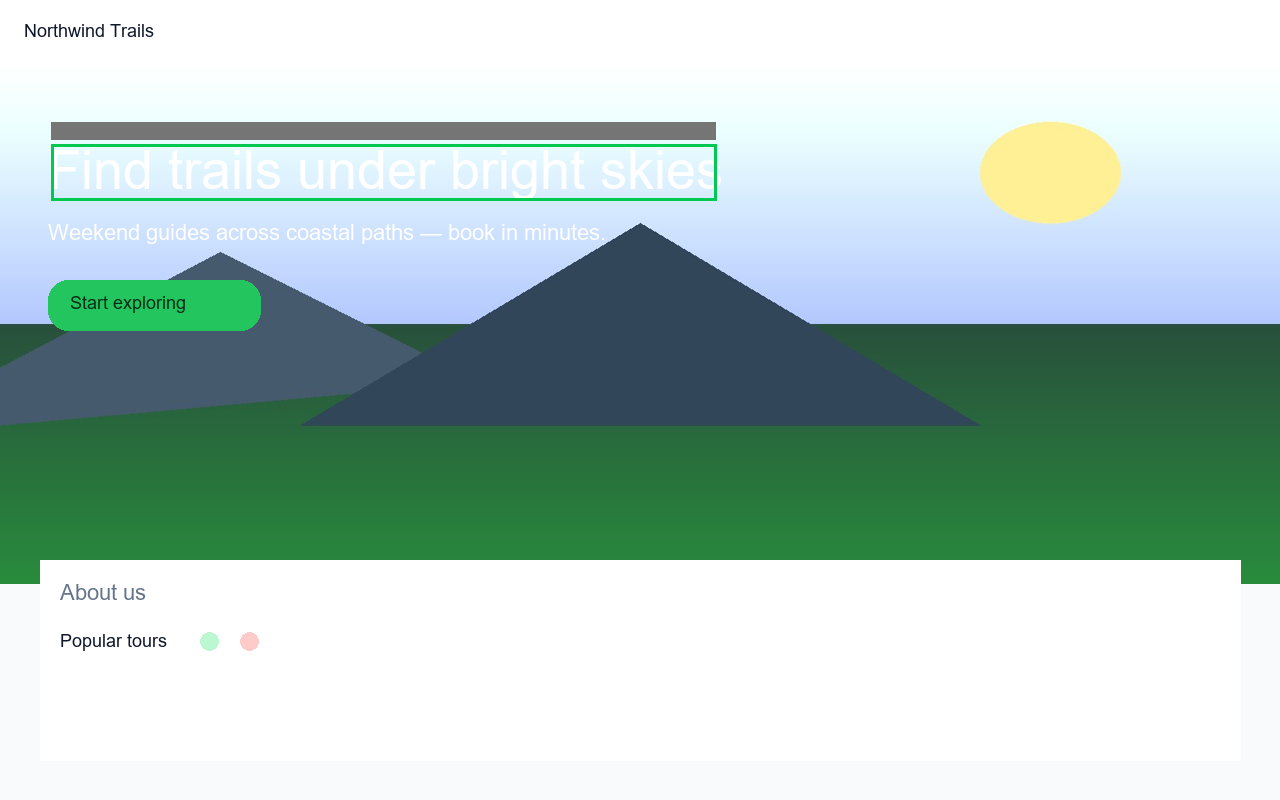
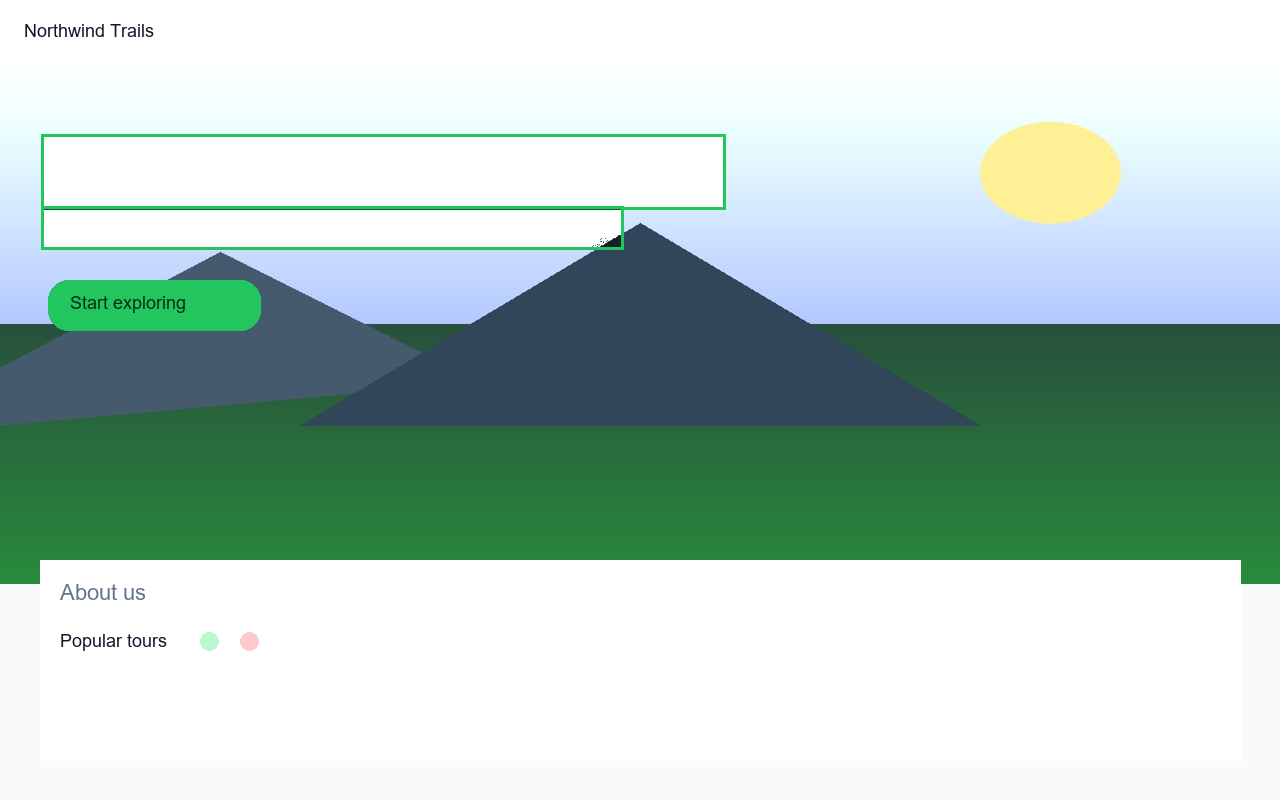
Fix hero autofix preview with scrim behind text.

Changed region(s): [[0.0312, 0.125, 0.5938, 0.3125]]

diff --git a/src/renderlens/visuals.py b/src/renderlens/visuals.py
@@ -3,12 +3,15 @@
 from __future__ import annotations
 
 from pathlib import Path
-from typing import Iterable, Optional
+from typing import Iterable, Literal
 
 from PIL import Image, ImageDraw, ImageFont
 
 from renderlens.contrast import (
+    contrast_ratio,
     nearest_aa_text_color,
+    passes_aa,
+    relative_luminance,
     rgb_to_hex,
     sample_region,
     scrim_alpha_for_aa,
@@ -44,12 +47,83 @@ def annotate_image(img: Image.Image, findings: Iterable[Finding]) -> Image.Image
         label = f.tier.value
         if f.contrast_ratio is not None:
             label = f"{f.contrast_ratio:.2f}:1 [{f.tier.value}]"
-        # label background
         tw, th = draw.textbbox((0, 0), label, font=font)[2:]
         ly = max(0, y1 - th - 4)
         draw.rectangle([x1, ly, x1 + tw + 6, ly + th + 4], fill=color + (230,))
         draw.text((x1 + 3, ly + 2), label, fill=(255, 255, 255), font=font)
     return out.convert("RGB")
+
+
+def _region_variance(pix: list[tuple[int, int, int]]) -> float:
+    if len(pix) <= 1:
+        return 0.0
+    mean = tuple(sum(p[i] for p in pix) / len(pix) for i in range(3))
+    return sum(sum((p[i] - mean[i]) ** 2 for i in range(3)) for p in pix) / len(pix)
+
+
+def _should_use_scrim(
+    finding: Finding,
+    sampled_fg: tuple[int, int, int],
+    sampled_bg: tuple[int, int, int],
+    variance: float,
+) -> bool:
+    if finding.category == "text_over_image":
+        return True
+    if finding.fix_kind == "scrim":
+        return True
+    # smooth sky/gradient under light text still needs a scrim, even if variance is low
+    if relative_luminance(sampled_fg) >= 0.55 and relative_luminance(sampled_bg) >= 0.45:
+        return True
+    if variance > 400:
+        return True
+    return False
+
+
+def _apply_scrim_behind_text(
+    img: Image.Image,
+    box: tuple[int, int, int, int],
+    *,
+    alpha: float,
+    pad: int = 10,
+) -> Image.Image:
+    """Darken background pixels in/near the box; keep bright text pixels readable.
+
+    We don't have a real z-order layer, so treat bright pixels as text and blend
+    the scrim into everything else — reads as a panel *behind* the letters.
+    """
+    x1, y1, x2, y2 = box
+    w, h = img.size
+    x1 = max(0, x1 - pad)
+    y1 = max(0, y1 - pad)
+    x2 = min(w, x2 + pad)
+    y2 = min(h, y2 + pad)
+
+    fixed = img.convert("RGB").copy()
+    region = fixed.crop((x1, y1, x2, y2))
+    pix = list(region.getdata())
+    a = max(0.35, min(1.0, alpha))  # visible enough for demos
+    out_pix = []
+    for r, g, b in pix:
+        lum = relative_luminance((r, g, b))
+        if lum >= 0.72:
+            # keep / boost text
+            out_pix.append((255, 255, 255))
+        else:
+            # scrim into background
+            out_pix.append(
+                (
+                    int(r * (1 - a)),
+                    int(g * (1 - a)),
+                    int(b * (1 - a)),
+                )
+            )
+    region.putdata(out_pix)
+    fixed.paste(region, (x1, y1))
+
+    # soft "fixed" outline so the slide reads clearly
+    draw = ImageDraw.Draw(fixed)
+    draw.rectangle([x1, y1, x2 - 1, y2 - 1], outline=(34, 197, 94), width=3)
+    return fixed
 
 
 def auto_fix_preview(
@@ -58,52 +132,83 @@ def auto_fix_preview(
     *,
     bg_mode: str = "worst",
 ) -> tuple[Image.Image, str]:
-    """Return (fixed_image_crop_or_full, description).
-
-    Solid-ish bg -> recolor hypothetical overlay note.
-    Image/gradient -> draw semi-transparent scrim behind the text box.
-    """
+    """Return (fixed preview image, short description)."""
     if not finding.bbox:
         return img.copy(), "no bbox; cannot auto-fix"
+
     w, h = img.size
     box = finding.bbox.to_pixels(w, h)
-    mode = "worst" if bg_mode in ("worst", "p5") else "solid"
+    mode: Literal["solid", "worst", "p5"]
     if bg_mode == "p5":
         mode = "p5"
-    sampled = sample_region(img, box, bg_mode=mode)  # type: ignore[arg-type]
+    elif bg_mode == "solid":
+        mode = "solid"
+    else:
+        mode = "worst"
 
-    # treat as image/gradient when variance is high
+    sampled = sample_region(img, box, bg_mode=mode)
     x1, y1, x2, y2 = box
     crop = img.convert("RGB").crop((x1, y1, x2, y2))
     pix = list(crop.getdata())
-    if len(pix) > 1:
-        mean = tuple(sum(p[i] for p in pix) / len(pix) for i in range(3))
-        var = sum(sum((p[i] - mean[i]) ** 2 for i in range(3)) for p in pix) / len(pix)
-    else:
-        var = 0.0
+    variance = _region_variance(pix)
 
-    fixed = img.convert("RGBA").copy()
-    if var > 800:  # busy background -> scrim
+    if _should_use_scrim(finding, sampled.fg, sampled.bg, variance):
         alpha = scrim_alpha_for_aa(sampled.fg, sampled.bg)
-        overlay = Image.new("RGBA", (x2 - x1, y2 - y1), (0, 0, 0, int(255 * alpha)))
-        fixed.alpha_composite(overlay, (x1, y1))
-        detail = (
-            f"scrim alpha={alpha:.2f} over image/gradient "
-            f"(bg sample {rgb_to_hex(sampled.bg)}, was {sampled.ratio:.2f}:1)"
-        )
-        return fixed.convert("RGB"), detail
+        # guarantee AA against the worst bg sample after blend
+        blended = tuple(int(sampled.bg[i] * (1 - max(alpha, 0.35))) for i in range(3))
+        new_ratio = contrast_ratio((255, 255, 255), blended)
+        # bump alpha if still short
+        a = max(alpha, 0.35)
+        while a < 1.0 and not passes_aa(new_ratio, large_text=True):
+            a += 0.05
+            blended = tuple(int(sampled.bg[i] * (1 - a)) for i in range(3))
+            new_ratio = contrast_ratio((255, 255, 255), blended)
 
+        fixed = _apply_scrim_behind_text(img, box, alpha=a)
+        detail = (
+            f"scrim behind text (alpha={a:.2f}); "
+            f"approx {new_ratio:.2f}:1 after fix (was {sampled.ratio:.2f}:1)"
+        )
+        return fixed, detail
+
+    # solid-ish: suggest a readable text color chip + outline
     new_fg = nearest_aa_text_color(sampled.fg, sampled.bg)
-    # we can't re-typeset unknown fonts; draw a solid bar in the fixed fg as a preview chip
+    fixed = img.convert("RGBA").copy()
     draw = ImageDraw.Draw(fixed)
-    draw.rectangle([x1, y1, x2, y2], outline=(0, 200, 80, 255), width=3)
-    chip = Image.new("RGB", (max(40, x2 - x1), 18), new_fg)
-    fixed.paste(chip, (x1, max(0, y1 - 22)))
+    draw.rectangle([x1, y1, x2, y2], outline=(34, 197, 94, 255), width=3)
+    chip_h = 18
+    chip = Image.new("RGB", (max(40, x2 - x1), chip_h), new_fg)
+    fixed.paste(chip, (x1, max(0, y1 - chip_h - 4)))
     detail = (
         f"suggested text color {rgb_to_hex(new_fg)} on solid-ish bg "
         f"{rgb_to_hex(sampled.bg)} (was {sampled.ratio:.2f}:1)"
     )
     return fixed.convert("RGB"), detail
+
+
+def auto_fix_all(
+    img: Image.Image,
+    findings: Iterable[Finding],
+    *,
+    bg_mode: str = "worst",
+) -> tuple[Image.Image, str]:
+    """Apply auto-fix for every verified contrast-like finding (demo-friendly)."""
+    targets = [
+        f
+        for f in findings
+        if f.tier == Tier.VERIFIED
+        and f.bbox
+        and f.category in ("text_over_image", "contrast")
+    ]
+    if not targets:
+        return img.copy(), "no verified contrast findings"
+
+    out = img.convert("RGB")
+    details: list[str] = []
+    for f in targets:
+        out, detail = auto_fix_preview(out, f, bg_mode=bg_mode)
+        details.append(f"{f.id}: {detail}")
+    return out, "; ".join(details)
 
 
 def save_image(img: Image.Image, path: Path) -> Path:

diff --git a/src/renderlens/report.py b/src/renderlens/report.py
@@ -11,7 +11,7 @@ from typing import Optional
 from PIL import Image
 
 from renderlens.schema import AuditReport, Finding, Tier
-from renderlens.visuals import annotate_image, auto_fix_preview, save_image
+from renderlens.visuals import annotate_image, auto_fix_all, save_image
 
 
 def _b64_png(img: Image.Image) -> str:
@@ -154,13 +154,8 @@ def emit_artifacts(
 
     fixed = None
     fix_detail = ""
-    # prefer first verified text_over_image / contrast for auto-fix demo
-    target = next(
-        (f for f in report.verified if f.category in ("text_over_image", "contrast")),
-        None,
-    )
-    if target:
-        fixed, fix_detail = auto_fix_preview(src, target)
+    if any(f.category in ("text_over_image", "contrast") for f in report.verified):
+        fixed, fix_detail = auto_fix_all(src, report.verified)
         save_image(fixed, out_dir / "autofix.png")
 
     md = write_markdown(report, out_dir / "report.md")
